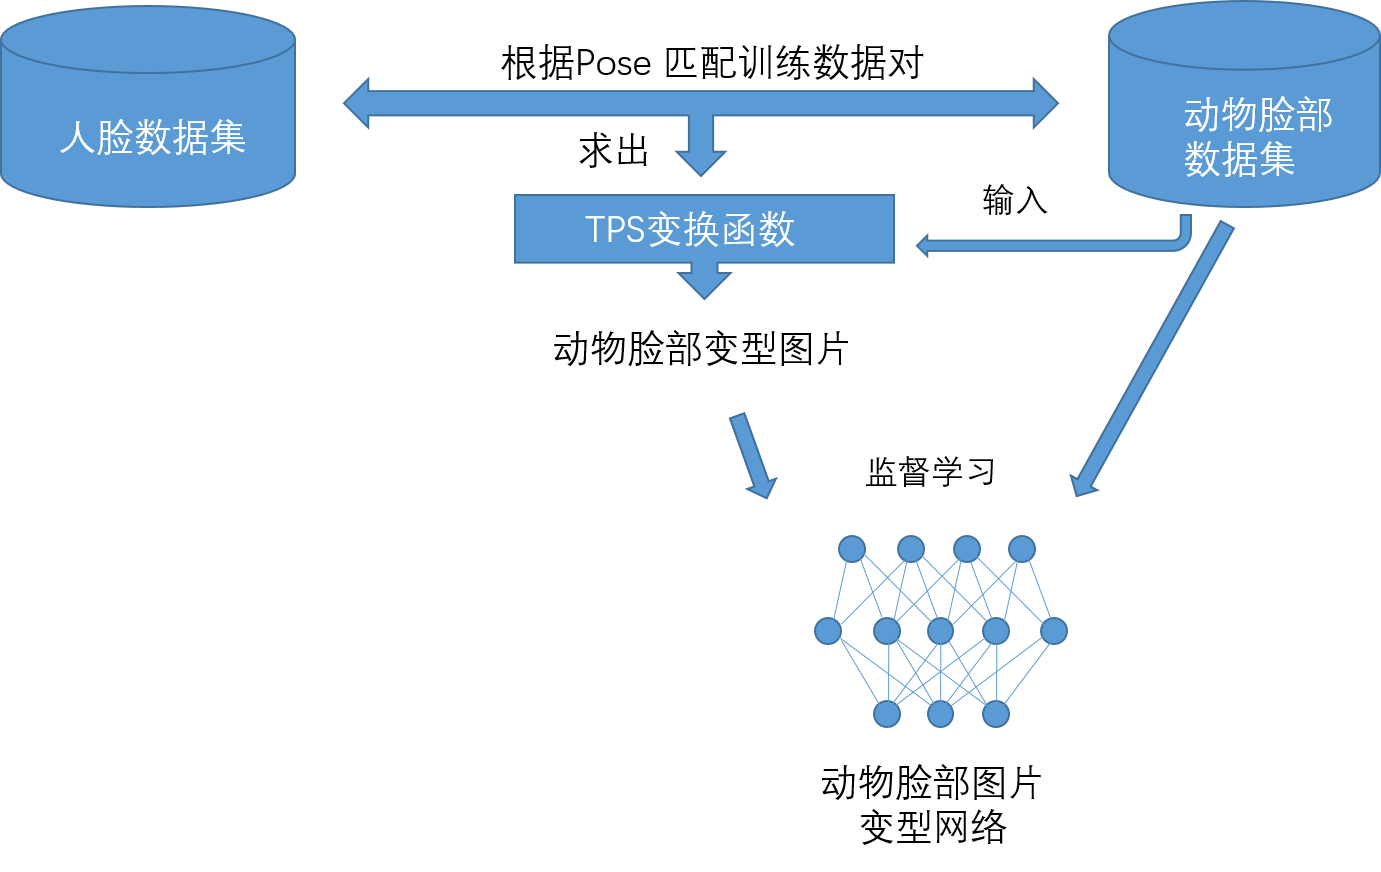
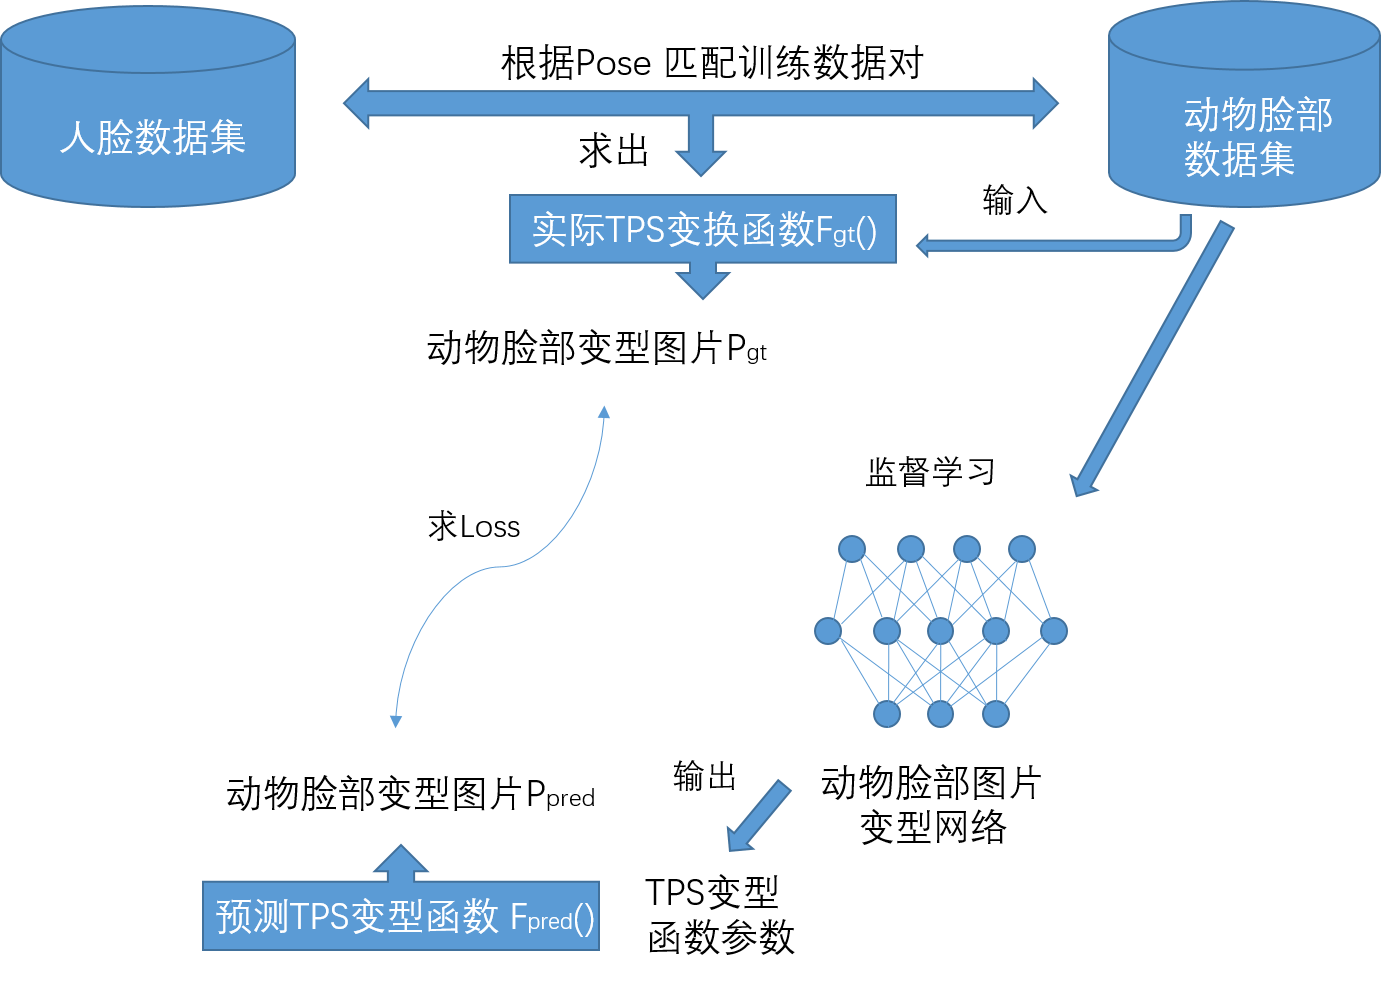
update

diff --git a/Interspeices Knowledge Transfer for Facial KeyPoint Detection（跨物种脸部关键点检测知识迁移）.md b/Interspeices Knowledge Transfer for Facial KeyPoint Detection（跨物种脸部关键点检测知识迁移）.md
@@ -10,7 +10,7 @@
 
 ## 一、介绍
 
-	本文主要涉及到变换将人脸关键点检测的方法以及已有知识转移到其他动物脸部识别中，借助迁移学习避免大量收集动物脸部照片再重新建模训练的麻烦，提出一种通过首先训练一个wraping network 将动物脸部变换为与pose相近的人类脸部的脸部形状相近，然后利用这些wraped image来对pretrained 的人脸识别网络进行微调，然后再在网络最后加入一个dewrap 层，从而实现对于其他动物的脸部关键节点的识别。
+	本文主要涉及到变换将人脸关键点检测的方法以及已有知识转移到其他动物脸部识别中，借助迁移学习避免大量收集动物脸部照片再重新建模训练的麻烦，提出了一种使动物脸部图片变型来克服结构性差异，用人脸识别网络来识别动物脸部的方法。
 
 	
 
@@ -34,7 +34,7 @@ Solution:         __**迁移学习**__
 
 
 
-	目前人脸识别数据集庞大，二关于动物脸部关键节点的数据集规模也就大概1000 images，相当小，如果能采用迁移学习，可以事半功倍。
+	目前人脸识别数据集庞大，像facenet、deepface的训练集都达到百万级别，而关于动物脸部关键节点的数据集规模也就大概1000 images，相当小，如果能采用迁移学习，可以事半功倍。
 
 	但同时存在着人脸和动物脸之间有结构性差异，比如说马脸比人脸长，眼鼻的间距大，他们鼻孔间距跟脸部宽度的比例也跟人的差别很大，所以直接的迁移效果一定很差，就像本文一开始的a)图一样。
 
@@ -65,7 +65,7 @@ Solution:         __**迁移学习**__
 
 ![1523330066451](./assets/1523330066451.png)
 
-	K的数量并不是多多益善的，这要结合你使用的human face dataset，文中使用的是AFLW dataset，当K增大到一定程度的时候，会可能因为带来噪声从而是结果变差，这点再实验部分细说。
+	K的数量并不是多多益善的，这要结合你使用的human face dataset，文中使用的是AFLW dataset，当K增大到一定程度的时候，会可能因为带来噪声从而是结果变差，这点在实验部分细说。
 
 	值得注意的是，这pose matching 只是为wraping network提供训练数据，并不参与testing，毕竟testing的时候我们就没有做好脸部关键点标注的动物图片。
 
@@ -89,19 +89,13 @@ Solution:         __**迁移学习**__
 
 
 
-	网络主要结构类似Localization network（定位网络），直到第五层卷积层都和Alexnet一样，然后后面接着是以1x1为过滤器的一层卷积层和两个全连接层，而且后面三层都先经过Batch Normalization处理。而前五层则是利用ImageNet预训练，后面的三层则是完全由我们的前一step中match得到的image pairs来训练。（这一点在迁移学习中，对于finetune 数据集较少且数据集的相似度不高的情况)
+	网络主要结构类似Localization network（定位网络），直到第五层卷积层都和Alexnet一样，然后后面接着是以1x1为过滤器的一层卷积层和两个全连接层，而且后面三层都先经过Batch Normalization处理。而前五层则是利用ImageNet预训练，后面的三层则是完全由我们的前一step中match得到的image pairs来训练。
 
-> 数据集小，数据相似度不高
->
->  在这种情况下，我们可以冻结预训练模型中的前k个层中的权重，然后重新训练后面的n-k个层，当然最后一层也需要根据相应的输出格式来进行修改。因为数据的相似度不高，重新训练的过程就变得非常关键。而新数据集大小的不足，则是通过冻结预训练模型的前k层进行弥补。
->
-> [reference](https://blog.csdn.net/xiaxuesong666/article/details/78816645)
-
-	对于每一张input image， 文中使用了TPS（薄板样条法），采用了5x5的方格，类似下图，通过对image进行变形，使得待变换点的变换到与目标点一致。
+	对于每一张input image， 文中使用了TPS（薄板样条法），选择了5个关键节点，利用关键节点对从而计算出TPS的函数的参数，得到TPS变型函数，然后对输入图片进行变换得到 Ground Truth Wrapped Image。 类似下图，通过对image进行变形，使得待变换点的变换到与目标点一致：
 
 ![1523438379425](./assets/1523438379425.png)
 
-	然后对于这个变形后的图片，背景采用图片的所有像素的颜色平均值填充，使得image的size并没有变化。然后利用这生成的图片作为Ground-truth wraping image，结合原来的input image 就形成了对与wraping network 的训练数据。文中提出先对wraping network进行预训练，然后再结合下一步的关键点预测网络一起训练效果更佳。
+	对于变形后的图片会用padding 来使它保持原来的size。文中提出先对wraping network进行训练，然后再结合下一步的关键点预测网络一起训练效果更佳。
 
 ![1523449603951](./assets/1523449603951.png)
 
@@ -122,8 +116,6 @@ Solution:         __**迁移学习**__
 ![1523451496162](./assets/1523451496162.png)
 
 	smooth L1(x)其实就是一个对于一个折线函数在近原点处做了一个圆滑处理。
-
-	这里我们注意到，它采用的一个关键点识别的网络其实层数相当浅，这是为什么呢？这主要用于fine-tune的数据量不足，这一不足导致关键节点只有5个，另外也限制网络层数的加深。
 
 
 
@@ -193,7 +185,7 @@ Solution:         __**迁移学习**__
 * 实验中用到的只是5个关键点，如果识别更多的关键点是否也是避免不了对数据集size的要求，尤其是如果要达到动物脸部识别到人脸识别等级，提取的关键点达到数十个的时候。
 * 动物脸部和人脸，即使在图像变型后，外表还是存在着比较大的差异，另外动物脸部相对于人脸更容易遮挡关键点
 * 同时动物的毛色是否应当纳入识别的范围？如果纳入，动物脸部的污垢对于毛色识别如何解决？
-* 文中由于可能由于数据集的限制，采用了一个层次比较浅的CNN网络，如果我们使用一个更优异的预训练的人脸识别网络，通过fine-tune，是否意味着取得更好的表现效果呢？
+* 如果我们使用一个更优异的预训练的人脸识别网络，通过fine-tune，是否意味着取得更好的表现效果呢？
 * 文中使用的是TPS图像变型，如果我们使用另外一种变型方法，是否会取得一个更好的训练效果呢？
 * 文中提出的近邻匹配方法，只是提出某些关键点的连线夹角，这种匹配对于不同的动物而言，应该针对其结构特征有所不同，是否意味着有更优的匹配方式？
 
